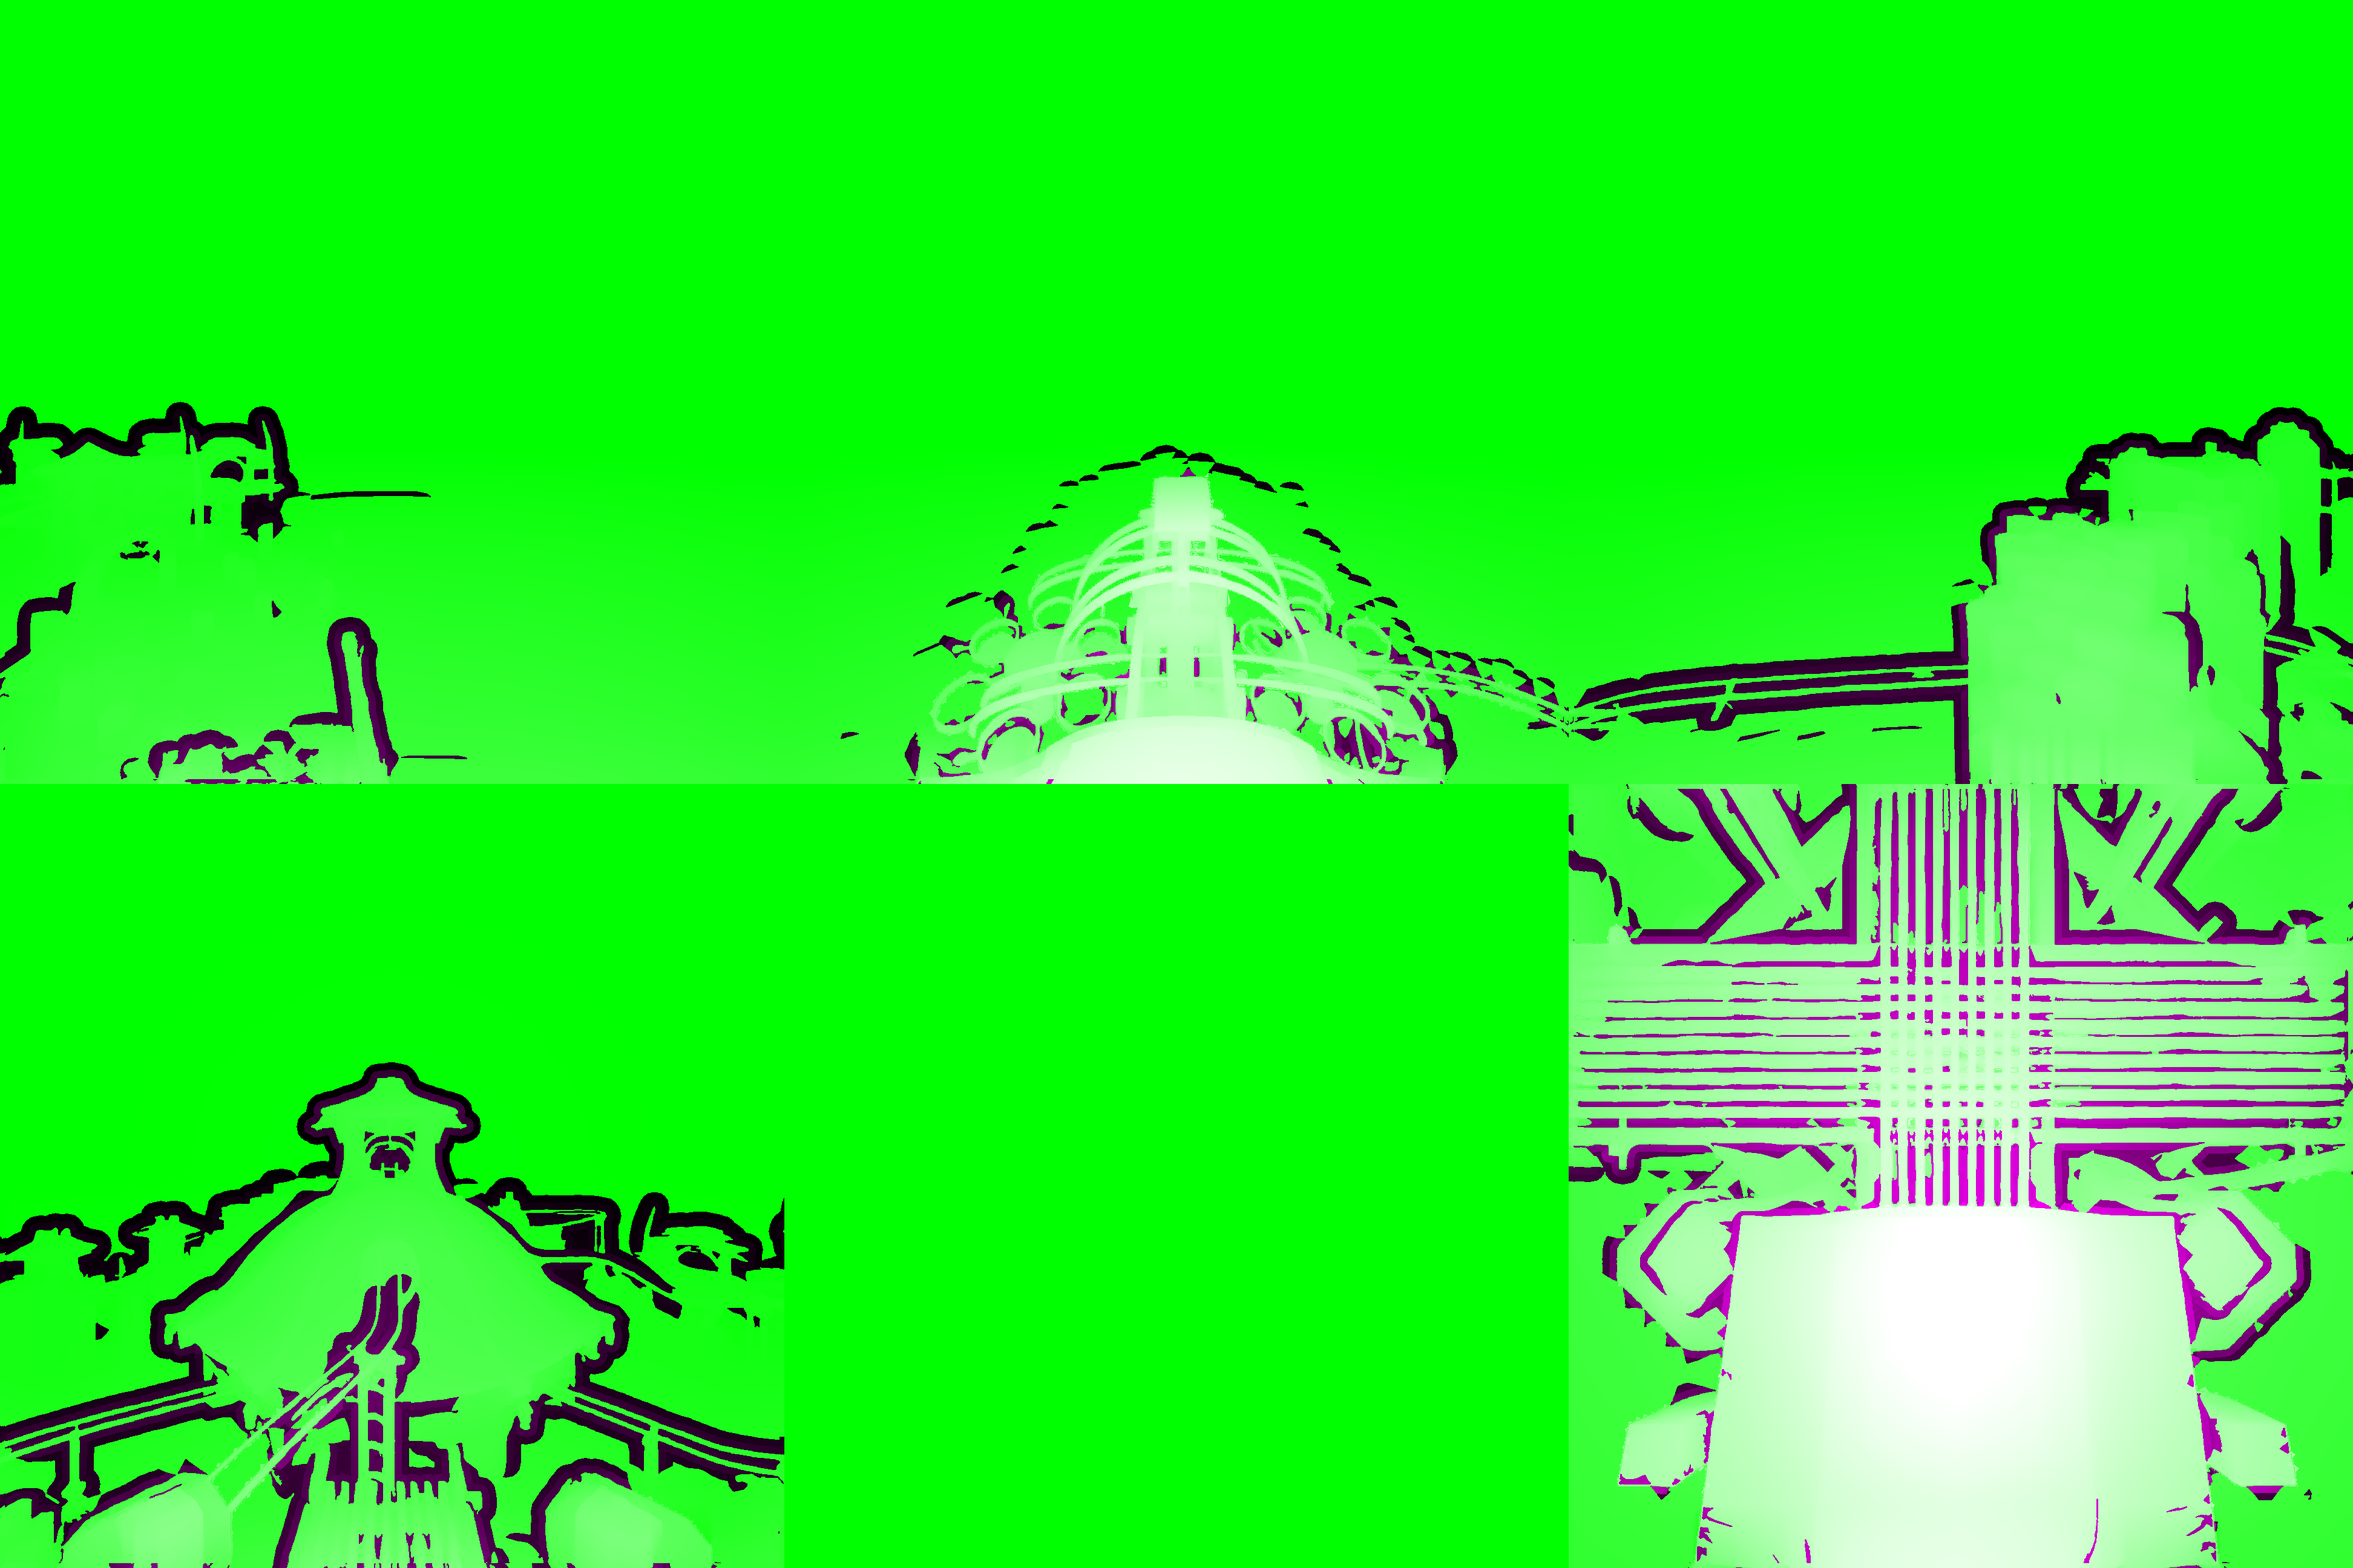
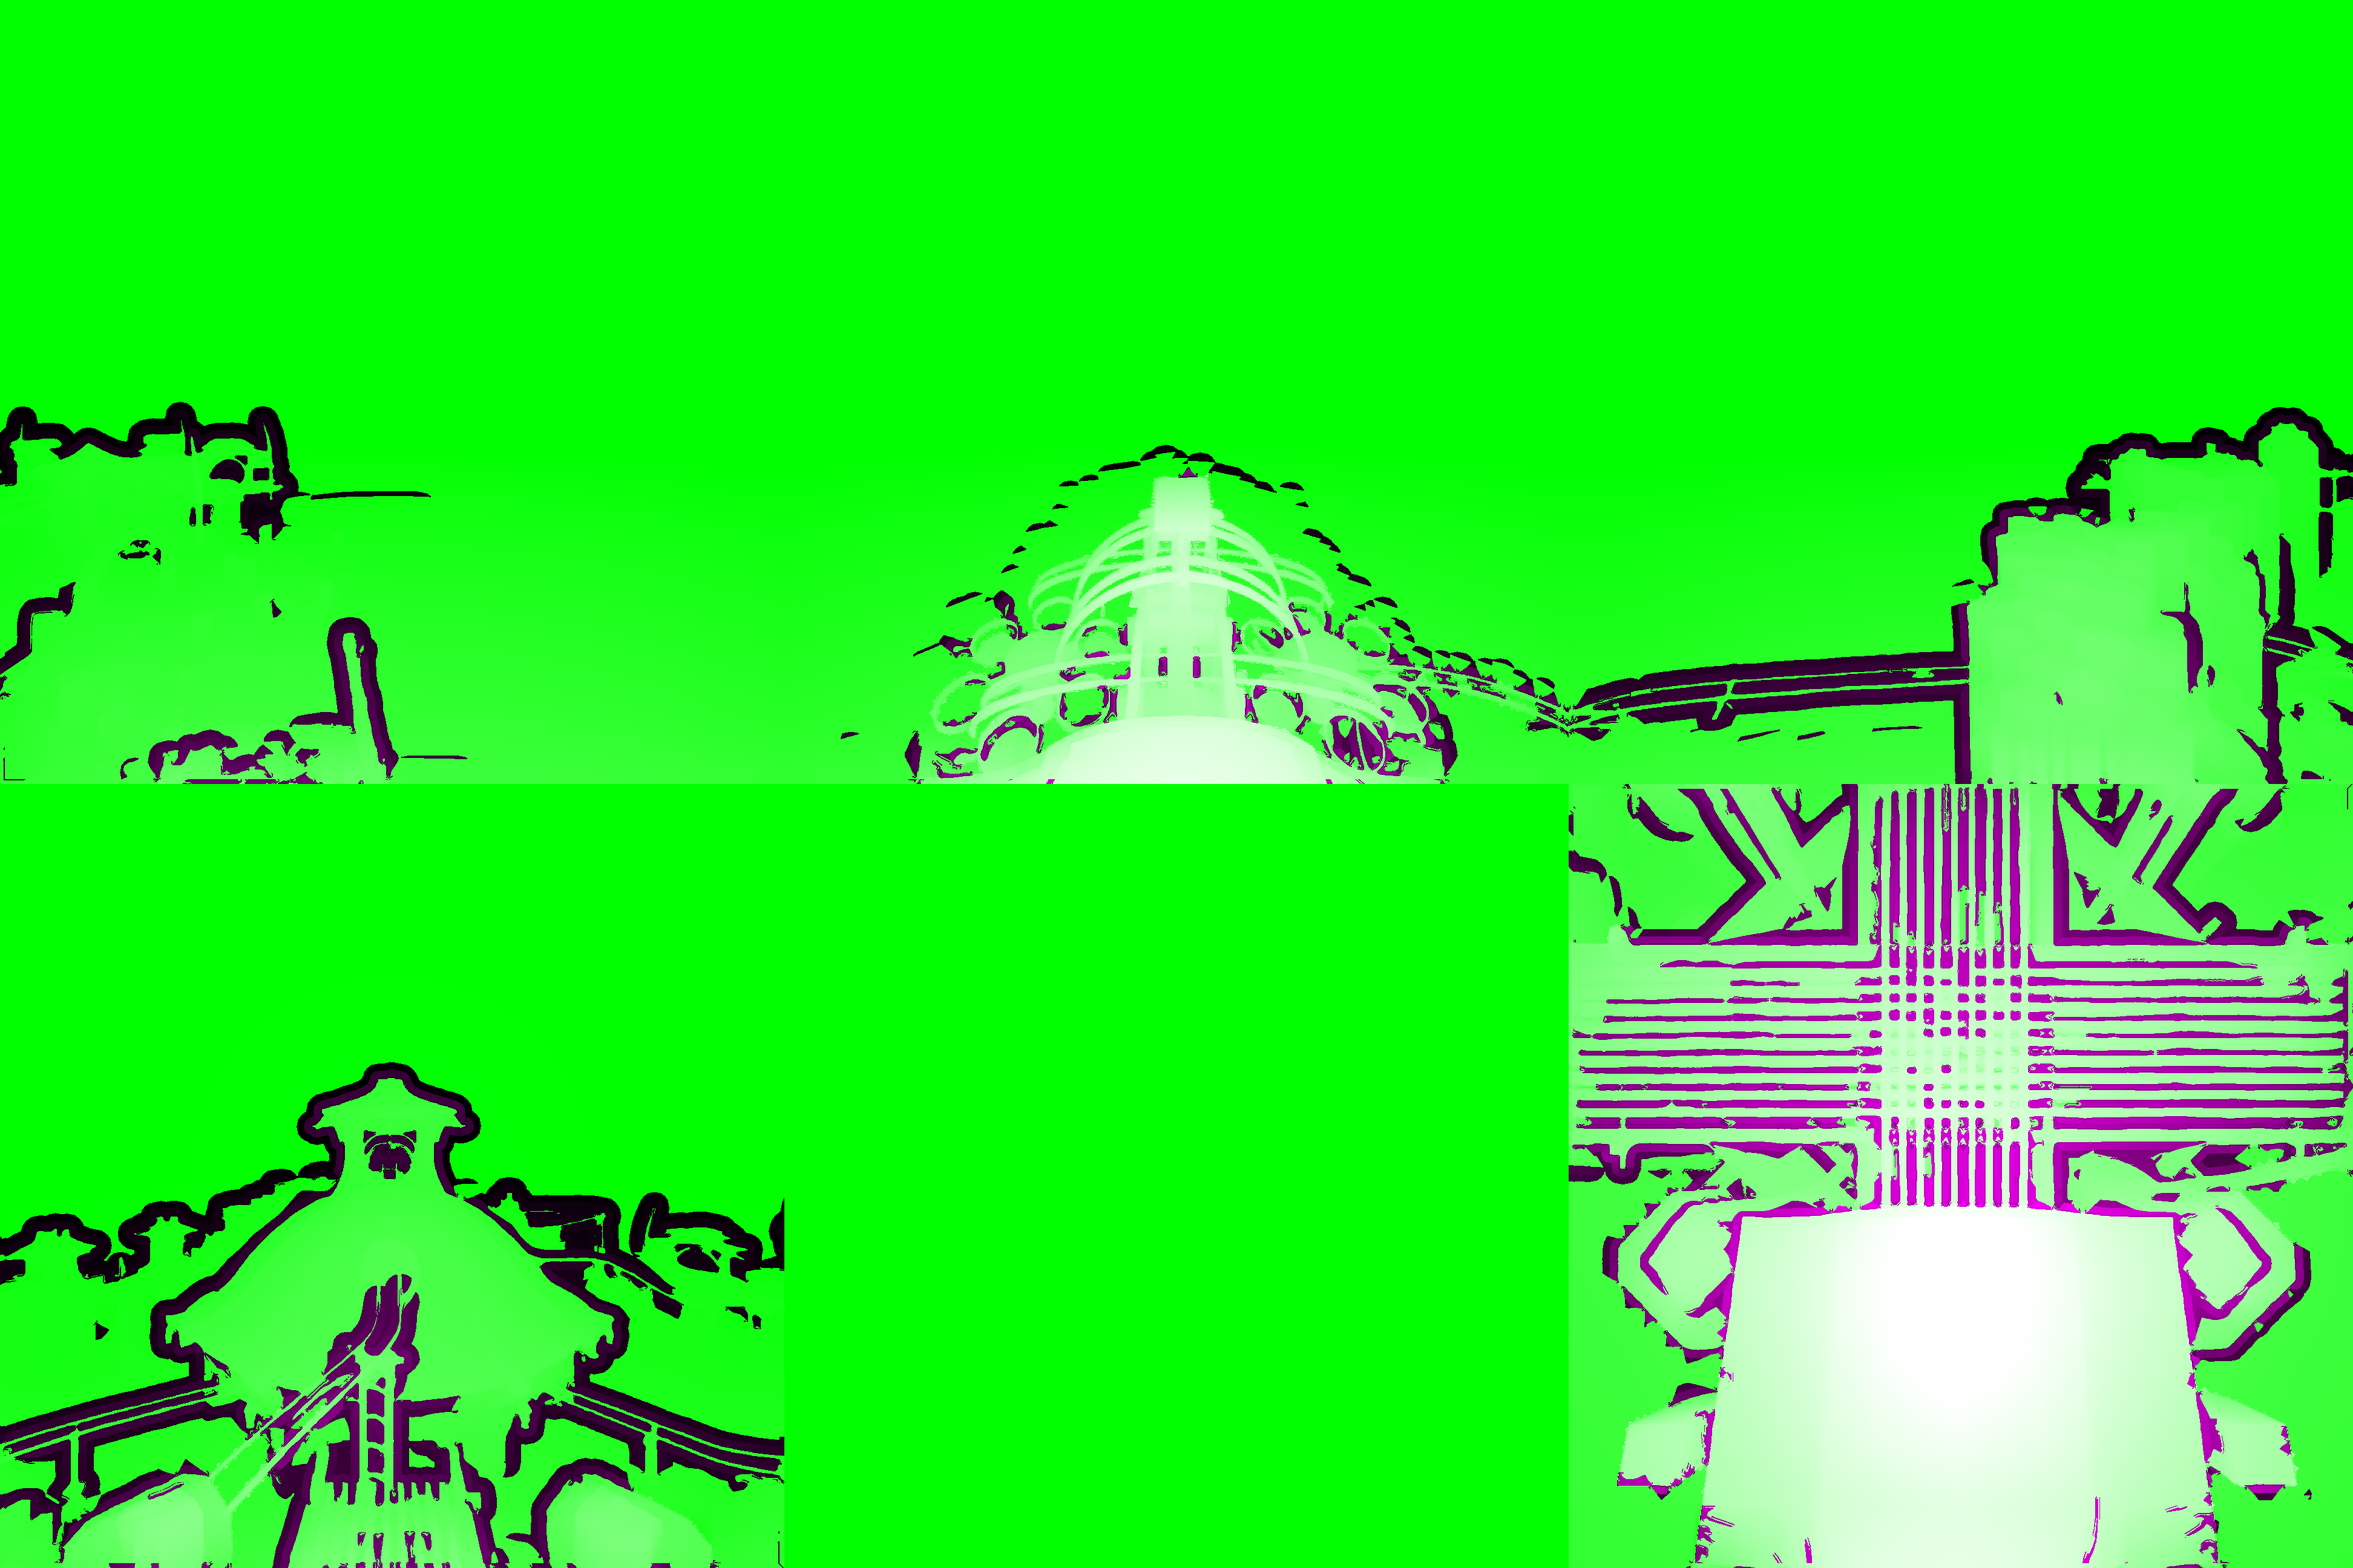
Lamps keep the depth of what they hang from, near objects lose their blended outer pixel where they border a hole, and MASS 84's backdrop shows the pier behind its building. sharpen_depth.py sets SegFormer's lamps and lights to the depth round them, since Depth Anything read MASS 84's lantern as far
Claude-Session: https://claude.ai/code/session_01PGTZsQJKeQ77ippduWGzGV

diff --git a/cube/myst3/colmap/sharpen_depth.py b/cube/myst3/colmap/sharpen_depth.py
@@ -63,6 +63,40 @@ def fit(p, t, w, iters=8):
     return a, b
 
 
+LIGHTS = ('lamp', 'light', 'chandelier', 'sconce', 'lantern')
+
+
+def light_fill(img, q, seg, seg_proc):
+    """Lamps and lights at the depth of what they hang from. Depth Anything
+    reads a glowing glass as far off, as light sources often are, so MASS 84's
+    lantern stayed with the sky while its dark cap moved with the post.
+    SegFormer (ADE20K) finds lamps, lights, chandeliers and sconces; each
+    piece takes the nearer end (90th percentile of r_far / r) of the solid
+    things in a ring round it, where that is nearer than its own."""
+    import cv2
+    import torch
+    ids = [int(i) for i, l in seg.config.id2label.items() if any(w in l for w in LIGHTS)]
+    with torch.no_grad():
+        x = seg_proc(images=img, return_tensors='pt').to(seg.device)
+        lab = torch.nn.functional.interpolate(seg(**x).logits, size=q.shape, mode='bilinear',
+                                              align_corners=False).argmax(1)[0].cpu().numpy()
+    lamp = np.isin(lab, ids)
+    if not lamp.any():
+        return q, 0
+    lamp = cv2.dilate(lamp.astype(np.uint8), np.ones((5, 5), np.uint8)) > 0
+    n, comp = cv2.connectedComponents(lamp.astype(np.uint8), connectivity=8)
+    out, filled = q.copy(), 0
+    for c in range(1, n):
+        m = comp == c
+        ring = (cv2.dilate(m.astype(np.uint8), np.ones((31, 31), np.uint8)) > 0) & ~m & (q >= 1)
+        if ring.sum() < 20:
+            continue
+        qf = np.percentile(q[ring], 90)
+        upd = m & (out < qf)
+        out[upd] = qf; filled += int(upd.sum())
+    return out, filled
+
+
 def main():
     ap = argparse.ArgumentParser(description=__doc__, formatter_class=argparse.RawDescriptionHelpFormatter)
     ap.add_argument('site'); ap.add_argument('out')
@@ -73,12 +107,16 @@ def main():
     ap.add_argument('--out-suffix', default='_sharp-depth.png')
     ap.add_argument('--model', default='depth-anything/Depth-Anything-V2-Large-hf')
     ap.add_argument('--band', type=int, default=96)
+    ap.add_argument('--seg-model', default='nvidia/segformer-b2-finetuned-ade-512-512')
     a = ap.parse_args()
     os.makedirs(a.out, exist_ok=True)
     import torch
     from transformers import AutoImageProcessor, AutoModelForDepthEstimation
     proc = AutoImageProcessor.from_pretrained(a.model)
     net = AutoModelForDepthEstimation.from_pretrained(a.model).to('cuda' if torch.cuda.is_available() else 'cpu').eval()
+    from transformers import SegformerForSemanticSegmentation, SegformerImageProcessor
+    seg_proc = SegformerImageProcessor.from_pretrained(a.seg_model)
+    seg = SegformerForSemanticSegmentation.from_pretrained(a.seg_model).to(net.device).eval()
     N = a.size
     u = (np.arange(N) + 0.5) / N
     s, t = np.meshgrid(u, u)
@@ -115,6 +153,10 @@ def main():
                             'vs_measured_p90_pct': float(np.percentile(rel, 90) * 100)}
             print(f'{name}: 1/z = {A:.4g} p + {B:.4g} over {m1.sum()} px; against the measured depth '
                   f'median {np.median(rel) * 100:.1f}%, 90% within {np.percentile(rel, 90) * 100:.1f}%')
+        qn, lit = light_fill(img, qn, seg, seg_proc)
+        if lit:
+            print(f'{name}: {lit} px of lamps and lights set to the depth round them')
+            report.setdefault(name, {})['lights_filled_px'] = lit
         faces[k] = {'r': np.where(qn >= 1, 1.0 / np.maximum(qn, 1e-12), np.inf)}
     feather(faces, N, N, a.band)
     for k, name in enumerate(a.names, 1):

diff --git a/cube/amateria/layers/build_layers.py b/cube/amateria/layers/build_layers.py
@@ -146,7 +146,7 @@ def remove_specks(m, area):
     return big[comp]
 
 
-def hole_band(q, whole, t, width, step_at, speck=80):
+def hole_band(q, whole, t, width, step_at, speck=80, rim_px=2):
     """Voltaic's way of cutting, for every near object: the width px outside
     its outline that lie noticeably farther than it become a hole in the
     foreground (green 0), and the object's depth carries on under the hole for
@@ -186,6 +186,13 @@ def hole_band(q, whole, t, width, step_at, speck=80):
     hole = remove_specks(hole, speck)
     hole = ~remove_specks(~hole, speck)
     hole &= ~whole
+    # The object's outermost rim_px px too, where they border the hole: those
+    # pixels are the object's colour blended with what was behind it, and
+    # over a different backdrop they showed as a pale torn fringe.
+    if rim_px > 0:
+        din = cv2.distanceTransform(whole.astype(np.uint8), cv2.DIST_L2, 3)
+        near_hole = cv2.dilate(hole.astype(np.uint8), np.ones((2 * rim_px + 3,) * 2, np.uint8)) > 0
+        hole |= whole & (din <= rim_px) & near_hole
     out = q.copy()
     under = far_side & (dist <= step_at)
     out[under] = nq[under]
@@ -278,6 +285,7 @@ def main():
     ap = argparse.ArgumentParser(description=__doc__, formatter_class=argparse.RawDescriptionHelpFormatter)
     ap.add_argument('out'); ap.add_argument('--lama', default='big-lama.pt')
     ap.add_argument('--band', type=int, default=160); ap.add_argument('--jump', type=float, default=0.8)
+    ap.add_argument('--rim', type=int, default=1, help="px of a near object's own blended rim cut where it borders a hole")
     ap.add_argument('--hide-fringe', type=int, default=6, help='px past the edge LaMa repaints, not copying the fringe')
     ap.add_argument('--fringe', type=int, default=2, help='px the painted region reaches past the jump into the far side')
     ap.add_argument('--reach', type=int, default=48, help='px within which the farthest far side counts as behind '
@@ -341,7 +349,7 @@ def main():
         hgrow = lambda m: cv2.dilate(m.astype(np.uint8), np.ones((2 * sc(a.hide_fringe) + 1,) * 2, np.uint8)) > 0
         masks[k], hide[k], fqs[k], wholes[k] = grow(region) | slits, hgrow(whole) | slits, fq, whole
         fgq[k], holes[k] = hole_band(sample(Q, look), whole, a.jump, sc(a.hole), sc(a.hole_step),
-                                           speck=int(20 * S * S))
+                                           speck=int(20 * S * S), rim_px=sc(a.rim))
     inner = (slice(PAD_, PAD_ + N), slice(PAD_, PAD_ + N))
     M = np.stack([masks[k][inner] for k in range(1, 7)])
     for k in ORDER:

diff --git a/cube/README.md b/cube/README.md
@@ -411,7 +411,16 @@ carries on 6 px past its outline under a 12 px hole (12 and 24 at 1280). On
 a phone the mesh has a vertex every 2.5 px of a 640 px face and each vertex
 averages the depth a quad round it; with 3 px, the vertices just inside an
 outline took in some of the far side and the rim bent back in a
-vertex-spaced pattern as the eye moved, a wiggle along every thin thing. Moving the measured
+vertex-spaced pattern as the eye moved, a wiggle along every thin thing. A
+near object's own outermost pixel (two at 1280) is cut too where it borders
+a hole (`--rim`): those pixels blend the object with what was behind it and
+showed as a pale torn fringe over a different backdrop. Lamps and lights
+(SegFormer's lamp, light, chandelier and sconce) take the depth of what they
+hang from in `sharpen_depth.py`: Depth Anything read MASS 84's glowing lantern
+as far off, and it stayed with the sky while its cap moved. MASS 84's
+backdrop now comes from the dense run with the movie frames and from the 20
+nearest nodes seen within 45° (11-18% of its side faces, against 2-11%): the
+pier and its rails carry on behind the building where LaMa had painted sky. Moving the measured
 depth's edges onto the picture's by colour was tried first (pixels within
 14–18 px of a jump relabelled near or far) and dropped: in these dark faces
 the labels came out speckled, each speckle tore, and the rings and arcs broke
